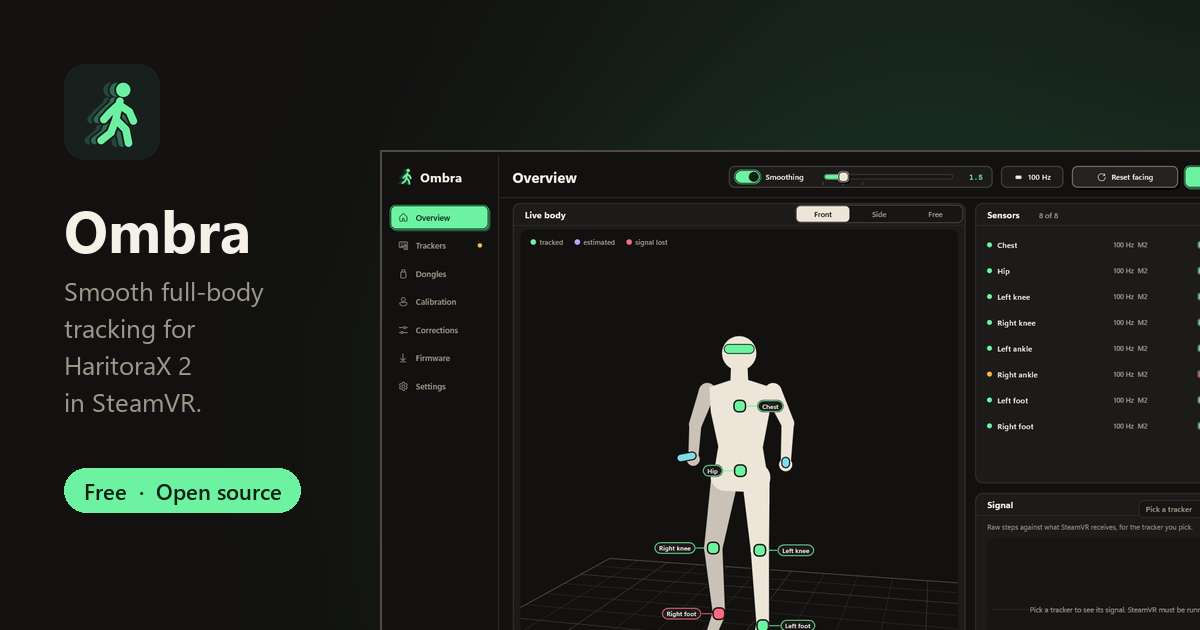
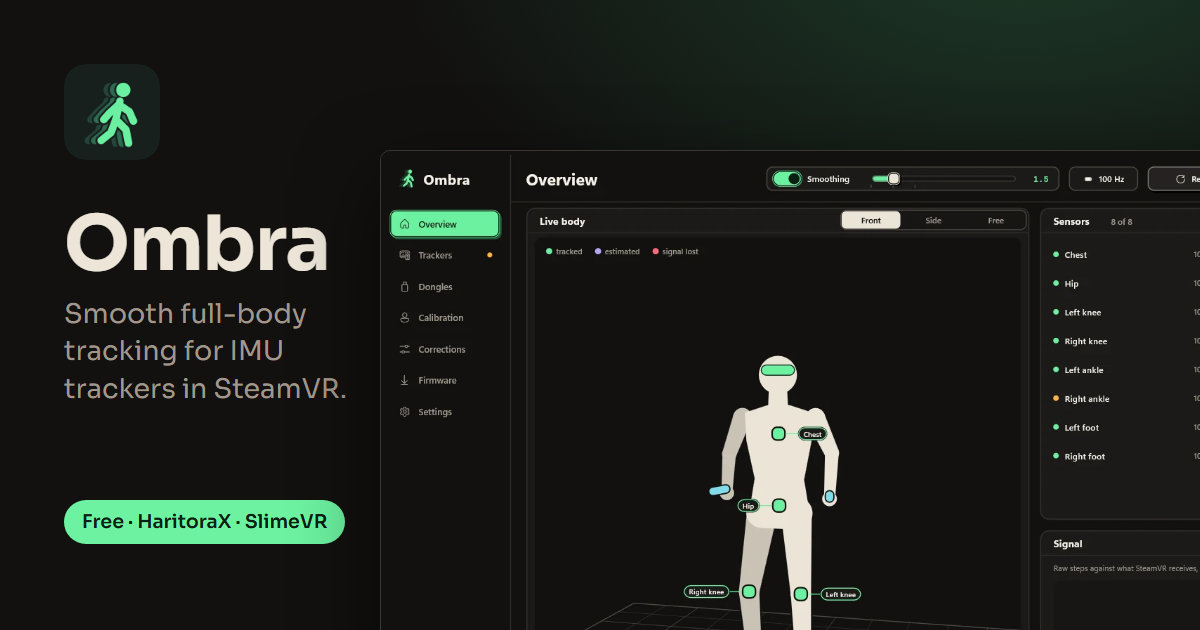
Support all trackers in texts, new preview image

diff --git a/site/index.html b/site/index.html
@@ -5,18 +5,18 @@
 <meta name="viewport" content="width=device-width, initial-scale=1">
 <meta name="color-scheme" content="dark">
 <meta name="theme-color" content="#121110">
-<title>Ombra · Full-body tracking for HaritoraX 2</title>
-<meta name="description" content="Ombra is a free app that drives HaritoraX 2 and 2 Pro trackers straight from the GX dongles and gives SteamVR smooth, predicted full-body tracking. No VR Manager running.">
+<title>Ombra · Full-body tracking for IMU trackers in SteamVR</title>
+<meta name="description" content="Ombra is a free app for HaritoraX, SlimeVR-compatible and other IMU trackers. It builds your body from the sensors and your headset and gives SteamVR smooth, predicted full-body tracking.">
 <link rel="canonical" href="https://thadoom.github.io/ombra/">
 <meta property="og:type" content="website">
-<meta property="og:title" content="Ombra · Full-body tracking for HaritoraX 2">
-<meta property="og:description" content="Smooth, precise full-body tracking for HaritoraX 2 in SteamVR. Free to download.">
+<meta property="og:title" content="Ombra · Full-body tracking for IMU trackers in SteamVR">
+<meta property="og:description" content="Smooth, precise full-body tracking in SteamVR for HaritoraX, SlimeVR-compatible trackers and more. Free to download.">
 <meta property="og:url" content="https://thadoom.github.io/ombra/">
-<meta property="og:image" content="https://thadoom.github.io/ombra/assets/og.png">
+<meta property="og:image" content="https://thadoom.github.io/ombra/assets/og.png?v=2">
 <meta property="og:image:width" content="1200">
 <meta property="og:image:height" content="630">
 <meta name="twitter:card" content="summary_large_image">
-<meta name="twitter:image" content="https://thadoom.github.io/ombra/assets/og.png">
+<meta name="twitter:image" content="https://thadoom.github.io/ombra/assets/og.png?v=2">
 <link rel="icon" href="assets/logo.svg" type="image/svg+xml">
 <link rel="icon" href="assets/favicon-32.png" type="image/png" sizes="32x32">
 <link rel="apple-touch-icon" href="assets/apple-touch-icon.png">
@@ -70,9 +70,9 @@
 <section class="hero">
   <div class="wrap hero-in">
     <div class="hero-copy">
-      <p class="eyebrow"><span class="dot"></span>For HaritoraX 2 and 2 Pro · SteamVR</p>
+      <p class="eyebrow"><span class="dot"></span>HaritoraX · SlimeVR-compatible · any IMU tracker in SteamVR</p>
       <h1>Full-body tracking that moves the way <em>you</em> do.</h1>
-      <p class="lede">Ombra reads your trackers straight from the GX dongles, builds your body from the sensors and your headset, and hands SteamVR every pose with its velocity, so each frame lands where you actually are.</p>
+      <p class="lede">Ombra reads your trackers straight from their dongles or receivers, builds your body from the sensors and your headset, and hands SteamVR every pose with its velocity, so each frame lands where you actually are.</p>
       <div class="cta">
         <a class="btn btn-primary" href="https://github.com/thadoom/ombra/releases/latest">
           <svg aria-hidden="true" viewBox="0 0 24 24" width="18" height="18"><path d="M12 4v11m0 0-4.5-4.5M12 15l4.5-4.5M5 19.5h14" fill="none" stroke="currentColor" stroke-width="2" stroke-linecap="round" stroke-linejoin="round"/></svg>
@@ -333,7 +333,7 @@
       <li class="node">
         <span class="n-tag">Hardware</span>
         <b>GX2 / GX6 dongles</b>
-        <span>HaritoraX 2 sensors, ~100 Hz each</span>
+        <span>HaritoraX via GX dongles, SlimeVR-compatible via Wi-Fi or USB receiver</span>
       </li>
       <li class="arrow" aria-hidden="true"><span>USB serial</span></li>
       <li class="node node-main">
@@ -409,7 +409,7 @@
         <svg aria-hidden="true" viewBox="0 0 24 24" width="18" height="18"><path d="M12 4v11m0 0-4.5-4.5M12 15l4.5-4.5M5 19.5h14" fill="none" stroke="currentColor" stroke-width="2" stroke-linecap="round" stroke-linejoin="round"/></svg>
         Download Ombra
       </a>
-      <p>Windows 10 or 11, 64-bit. SteamVR. HaritoraX 2 or 2 Pro with a GX2 or GX6 dongle.</p>
+      <p>Windows 10 or 11, 64-bit. SteamVR. HaritoraX 2, 2 Pro or Wireless with a GX dongle, or SlimeVR-compatible trackers.</p>
     </div>
   </div>
 </section>
@@ -428,7 +428,7 @@
       </details>
       <details>
         <summary>Which trackers and dongles are supported?</summary>
-        <p>HaritoraX 2 and HaritoraX 2 Pro, connected through GX2 or GX6 dongles. Ombra sends SteamVR the hip, chest, knees and feet, and you choose which of them each game sees.</p>
+        <p>HaritoraX 2, 2 Pro and Wireless through GX2 or GX6 dongles; SlimeVR-compatible trackers over Wi-Fi or a USB receiver (for example Butterfly and Smol Slime). Ombra's filter and prediction can also smooth any other IMU tracker already in SteamVR. Ombra sends SteamVR the hip, chest, knees, feet and elbows, and you choose which of them each game sees. HaritoraX 1 (wired) is not supported.</p>
       </details>
       <details>
         <summary>Can I run it together with VR Manager?</summary>
@@ -460,7 +460,7 @@
   <div class="wrap foot-in">
     <div class="foot-brand">
       <a class="brand" href="#top"><img src="assets/logo.svg" alt="" width="28" height="28"><span>Ombra</span></a>
-      <p>Smooth, precise full-body tracking for HaritoraX 2 in SteamVR.</p>
+      <p>Smooth, precise full-body tracking for IMU trackers in SteamVR.</p>
     </div>
     <ul class="foot-links">
       <li><a href="https://github.com/thadoom/ombra">GitHub</a></li>
@@ -469,7 +469,7 @@
       <li><a href="https://github.com/thadoom/ombra/issues/new/choose">Propose a feature</a></li>
       <li><a href="https://github.com/thadoom/ombra/blob/main/THIRD_PARTY_NOTICES.md">Third-party notices</a></li>
     </ul>
-    <p class="fine">Free to use, closed source. Not affiliated with or endorsed by Shiftall Inc. or Valve Corporation. HaritoraX, SteamVR and VRChat are trademarks of their respective owners.</p>
+    <p class="fine">Free to use, closed source. Not affiliated with or endorsed by Shiftall Inc. or Valve Corporation. HaritoraX, SlimeVR, SteamVR and VRChat are trademarks of their respective owners.</p>
   </div>
 </footer>
 

diff --git a/README.md b/README.md
@@ -5,7 +5,7 @@
 <h1 align="center">Ombra</h1>
 
 <p align="center">
-  Smooth, precise full-body tracking for <b>HaritoraX 2 / 2 Pro</b> in SteamVR.<br>
+  Smooth, precise full-body tracking in SteamVR for <b>HaritoraX</b>, <b>SlimeVR-compatible trackers</b> and other IMU trackers.<br>
   One small native app: dongles, body, calibration, drift correction and SteamVR driver.
 </p>
 
@@ -33,9 +33,9 @@
 
 ## What Ombra does
 
-Ombra reads your HaritoraX trackers **straight from the GX dongles**, rebuilds your body from the sensors and your headset, and gives SteamVR trackers that behave like Vive trackers: every pose carries its velocity, so SteamVR predicts it to the exact frame time.
+Ombra reads your trackers **straight from their dongles or receivers**, rebuilds your body from the sensors and your headset, and gives SteamVR trackers that behave like Vive trackers: every pose carries its velocity, so SteamVR predicts it to the exact frame time.
 
-- **Reads the dongles itself.** GX2 and GX6, 50 or 100 Hz per sensor. Pair, unpair, change radio channels and tracker settings inside the app.
+- **Works with most IMU trackers.** HaritoraX 2, 2 Pro and Wireless through GX2/GX6 dongles (50 or 100 Hz per sensor, pairing and tracker settings inside the app); SlimeVR-compatible trackers over Wi-Fi or a USB receiver; and Ombra's filter can smooth any other IMU tracker already in SteamVR.
 - **Smooth without lag.** An adaptive filter that is steady when you stand still and fast when you kick, with latency compensation for the radio link.
 - **Guided calibration in two poses**, about 6 seconds. It finds how each sensor is mounted and tells you which one to fix.
 - **Quick calibration** most days: Ombra remembers how each sensor sits on your body, also after a restart, so you only stand straight.
@@ -45,7 +45,7 @@ Ombra reads your HaritoraX trackers **straight from the GX dongles**, rebuilds y
 - **Ombra inside SteamVR**: a dashboard tab with every tracker, its battery and big buttons for calibrate, quick calibration and reset facing. Voice warnings when a tracker drops out or its battery runs low.
 - **Firmware updates** for trackers (Bluetooth) and dongles (USB), with Shiftall's original signed files, checked before use.
 - **More outputs**: VRChat OSC trackers (VRChat on a standalone Quest) and VMC for VTuber apps.
-- **More trackers**: SlimeVR-compatible trackers over Wi-Fi or a USB receiver, with guided Wi-Fi setup.
+- **Mix trackers**: HaritoraX and SlimeVR-compatible trackers on the same body, with guided Wi-Fi setup for new SlimeVR boards.
 - In **English, Italiano, Deutsch and Français**.
 
 <table>
@@ -62,11 +62,22 @@ Ombra reads your HaritoraX trackers **straight from the GX dongles**, rebuilds y
 ## Install
 
 1. Download `Ombra-Setup.exe` from [Releases](https://github.com/thadoom/ombra/releases/latest).
-2. Close Shiftall VR Manager and SteamVR. Only one app can use the dongles at a time.
+2. Close SteamVR and any other tracker app (Shiftall VR Manager, SlimeVR Server). Only one app can use the dongles or receivers at a time.
 3. Run the setup. It needs no admin rights and registers the SteamVR driver.
 4. Turn on the trackers, start SteamVR (it starts Ombra for you) and press **Calibrate**.
 
-**Requirements:** Windows 10 or 11 (64-bit), SteamVR, HaritoraX 2 or 2 Pro with a GX2 or GX6 dongle.
+**Requirements:** Windows 10 or 11 (64-bit) and SteamVR.
+
+**Supported trackers:**
+
+| Trackers | How they connect |
+|---|---|
+| HaritoraX 2, HaritoraX 2 Pro | GX2 or GX6 dongle |
+| HaritoraX Wireless | GX2 or GX6 dongle |
+| SlimeVR-compatible trackers (DIY boards, Butterfly, Smol Slime, other nRF trackers) | Wi-Fi, or a USB receiver |
+| Any other IMU tracker already in SteamVR | smoothing and prediction only (optional) |
+
+HaritoraX 1 / 1.1 (wired) is not supported yet. Want another tracker? [Propose it](https://github.com/thadoom/ombra/issues/new?template=feature_request.yml).
 
 **Updates:** Ombra tells you when a new version is out and installs it in one click. It never updates while SteamVR is running.
 
@@ -77,13 +88,13 @@ Ombra reads your HaritoraX trackers **straight from the GX dongles**, rebuilds y
 ## How it works
 
 ```
-GX dongles ──USB──▶ Ombra.exe ──shared memory──▶ Ombra driver (inside SteamVR) ──▶ your game
- sensors            body model at 250 Hz,         virtual trackers: hip, chest,
- 50/100 Hz          calibration, drift,           knees, feet (+ elbows),
-                    3D preview, settings          filter, velocity, prediction
+Trackers ─────────▶ Ombra.exe ─────shared memory────▶ Ombra driver (in SteamVR) ──▶ your game
+GX dongles,         body model at 250 Hz,             virtual trackers: hip, chest,
+Wi-Fi, receivers    calibration, drift,               knees, feet (+ elbows),
+                    3D preview, settings              filter, velocity, prediction
 ```
 
-1. **Dongles.** Ombra opens each GX dongle over USB and decodes every sensor's orientation, battery, signal and real update rate. Tracker settings you choose (rate, mode, light, ankle sensor) are written back each time a tracker connects.
+1. **Trackers.** Ombra opens each GX dongle over USB, or receives SlimeVR-compatible trackers over Wi-Fi or a USB receiver, and decodes every sensor's orientation, battery, signal and real update rate. Tracker settings you choose (rate, mode, light, ankle sensor) are written back each time a tracker connects.
 2. **Body.** A core loop at 250 Hz turns the sensor rotations into a body (see [below](#how-ombra-estimates-your-body)) and writes the virtual trackers into shared memory.
 3. **Driver.** Ombra's SteamVR driver creates the trackers with their roles already set (waist, chest, knees, feet), then for every pose:
    - filters it with an adaptive One Euro filter (presets Smooth, Balanced, Responsive, Off, a 0–10 slider, and a separate style per tracker);
